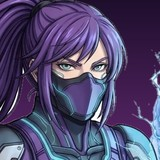
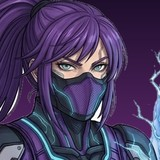
v231: updated Vesper art

diff --git a/game.js b/game.js
@@ -4,7 +4,7 @@
    ========================================================= */
 'use strict';
 (() => {
-const VERSION = 'v230';
+const VERSION = 'v231';
 
 let W = 384; const H = 216, GROUND = 190, GRAV = 0.34;
 let CX = 192; // centre horizontal
@@ -5547,8 +5547,8 @@ function drawTitle() {
 // Écran de sélection : personnages en entier à gauche (joueur 1) et à droite (joueur 2), grille 4 x 2 au centre
 const SEL_KEYS = ['hiro', 'axel', 'vesper', 'grog', 'zephyr', 'nyx', 'kael', 'vane'];   // indices DEFS
 const SEL_FACE_DIR = [-1, 1, 1, -1, 1, 1, -1, 1];   // sens du regard de chaque image en pied (indices DEFS : Hiro, Axel, Vesper, Grog, Zephyr, Nyx, Kael, Vane)
-const SEL_ART = SEL_KEYS.map(k => { const im = new Image(); lazySrc(im, 'sel_' + k + '.webp?v=2'); return im; });
-const SEL_FACE = SEL_KEYS.map(k => { const im = new Image(); lazySrc(im, 'face_' + k + '.jpg?v=6'); return im; });
+const SEL_ART = SEL_KEYS.map(k => { const im = new Image(); lazySrc(im, 'sel_' + k + '.webp?v=3'); return im; });
+const SEL_FACE = SEL_KEYS.map(k => { const im = new Image(); lazySrc(im, 'face_' + k + '.jpg?v=7'); return im; });
 const ADD_BTN = [0, 0, 0, 0], QR_POP = [0, 0, 0, 0];
 const inRect = (t, r) => t.x >= r[0] && t.x <= r[0] + r[2] && t.y >= r[1] && t.y <= r[1] + r[3];
 const imgOk = im => im && (im instanceof HTMLCanvasElement ? im.width > 0 : im.complete && im.naturalWidth);

diff --git a/index.html b/index.html
@@ -33,7 +33,7 @@
 <link rel="preconnect" href="https://fonts.googleapis.com">
 <link rel="preconnect" href="https://fonts.gstatic.com" crossorigin>
 <link href="https://fonts.googleapis.com/css2?family=Press+Start+2P&display=swap" rel="stylesheet">
-<link rel="stylesheet" href="style.css?v=230">
+<link rel="stylesheet" href="style.css?v=231">
 </head>
 <body>
 <div id="app">
@@ -68,6 +68,6 @@
 
 <script async src="https://cdnjs.cloudflare.com/ajax/libs/peerjs/1.5.4/peerjs.min.js"></script>
 <script async src="https://cdnjs.cloudflare.com/ajax/libs/qrcode-generator/1.4.4/qrcode.min.js"></script>
-<script src="game.js?v=230"></script>
+<script src="game.js?v=231"></script>
 </body>
 </html>
